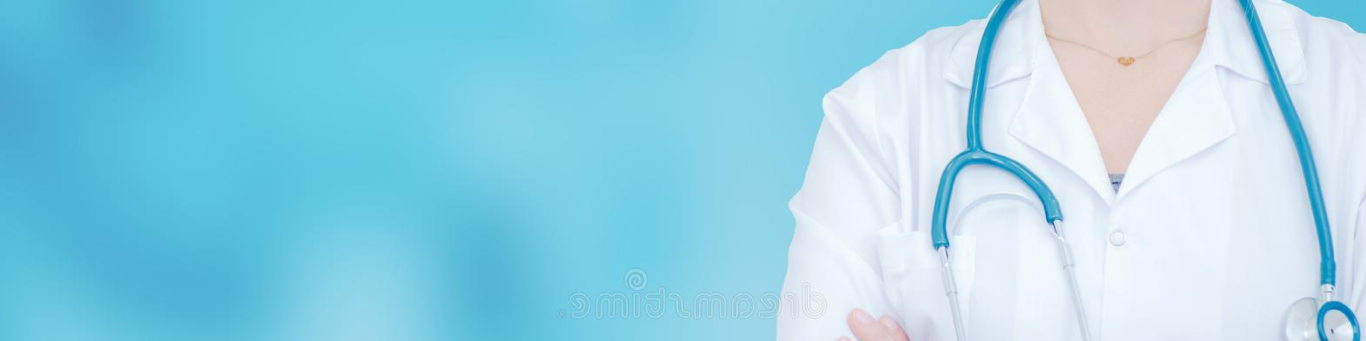
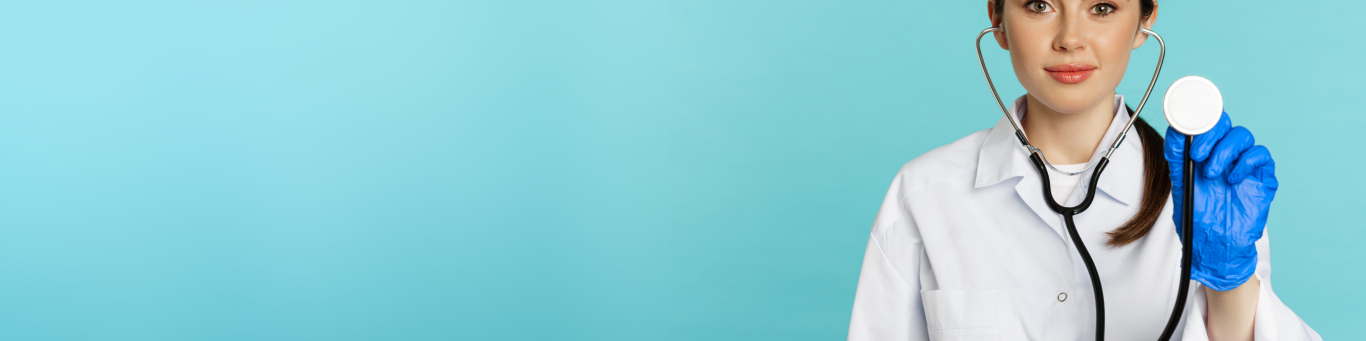
Files Updated

diff --git a/patientcaretestimonials.html b/patientcaretestimonials.html
@@ -82,8 +82,7 @@
     <section class="testimonial_area ptb-70">
         <div class="content_container">
             <h2>What our patient is talking about  MPUH.</h2>
-            <p class="font_regular">Lorem ipsum dolor sit amet, consectetuer adipiscing elit. Aenean commodo ligula eget dolor. Aenean massa. <br>
-                Cum sociis natoque penatibus et magnis dis parturient montes, </p>
+            
                 <div class="row stories_flex">
                     <div class="col-md-3 col-sm-6 col-12">
                         <div class="stories_box">
@@ -92,7 +91,7 @@
                             </div>
                             <div class="stories_content">
                                 <img src="img/quotes.png" alt="left_quote" class="img-fluid quote_icon">
-                                <p class="font_regular">Lorem ipsum dolor sit amet, consectetuer adipiscing elit. Aenean commodo ligulaeget </p>
+                                
                                 <h3>Mr.Somsingh Tank</h3>
                                 <p class="font_small destination">Baruch, Gujarat, India</p>
                                 <a href="https://youtu.be/qw5dIlHQiwQ?si=IxtgVnGYvijYuvdO" class="blue_btn">
@@ -109,7 +108,7 @@
                             </div>
                             <div class="stories_content">
                                 <img src="img/quotes.png" alt="left_quote" class="img-fluid quote_icon">
-                                <p class="font_regular">Lorem ipsum dolor sit amet, consectetuer adipiscing elit. Aenean commodo ligulaeget </p>
+                                
                                 <h3>Mr.Prakashchandra Jain</h3>
                                 <p class="font_small destination">Imphal, Manlnagar, India</p>
                                 <a href="https://youtu.be/PavyZ5PLKKA?si=YxF0iGPllWSdhX5y" class="blue_btn">
@@ -126,7 +125,7 @@
                             </div>
                             <div class="stories_content">
                                 <img src="img/quotes.png" alt="left_quote" class="img-fluid quote_icon">
-                                <p class="font_regular">Lorem ipsum dolor sit amet, consectetuer adipiscing elit. Aenean commodo ligulaeget </p>
+                                
                                 <h3>Mr.Ahmed Ebrahim</h3>
                                 <p class="font_small destination">Bahrain, Middle East</p>
                                 <a href="https://youtu.be/vKsvyiROiWY?si=k6zzRcnX_SF06_yw" class="blue_btn">
@@ -143,7 +142,7 @@
                             </div>
                             <div class="stories_content">
                                 <img src="img/quotes.png" alt="left_quote" class="img-fluid quote_icon">
-                                <p class="font_regular">Lorem ipsum dolor sit amet, consectetuer adipiscing elit. Aenean commodo ligulaeget </p>
+                                
                                 <h3>Mr.Sanjaykumar Mohta</h3>
                                 <p class="font_small destination">West Bengal, India</p>
                                 <a href="https://youtu.be/AFsThTVCHV0?si=uyOlR3UHUYXRr53B" class="blue_btn">
@@ -160,7 +159,7 @@
                             </div>
                             <div class="stories_content">
                                 <img src="img/quotes.png" alt="left_quote" class="img-fluid quote_icon">
-                                <p class="font_regular">Lorem ipsum dolor sit amet, consectetuer adipiscing elit. Aenean commodo ligulaeget </p>
+                                
                                 <h3>Mr.Prakash Masand</h3>
                                 <p class="font_small destination">Indore, Madhya Pradesh, India</p>
                                 <a href="https://youtu.be/opqXghCo5w4?si=RMSvplj6Bron7q10" class="blue_btn">
@@ -177,7 +176,7 @@
                             </div>
                             <div class="stories_content">
                                 <img src="img/quotes.png" alt="left_quote" class="img-fluid quote_icon">
-                                <p class="font_regular">Lorem ipsum dolor sit amet, consectetuer adipiscing elit. Aenean commodo ligulaeget </p>
+                                
                                 <h3>Mr.Christian Chukwkere</h3>
                                 <p class="font_small destination">Lagos, NIgeria, West Africa</p>
                                 <a href="https://youtu.be/gH8_dxdHw0o?si=3Gd79Y3ln9urDCaU" class="blue_btn">

diff --git a/testimonials.html b/testimonials.html
@@ -80,8 +80,7 @@
     <section class="testimonial_area ptb-70">
         <div class="content_container">
             <h2>What our patient is talking about  MPUH.</h2>
-            <p class="font_regular">Lorem ipsum dolor sit amet, consectetuer adipiscing elit. Aenean commodo ligula eget dolor. Aenean massa. <br>
-                Cum sociis natoque penatibus et magnis dis parturient montes, </p>
+            
                 <div class="row stories_flex">
                     <div class="col-md-3 col-sm-6 col-12">
                         <div class="stories_box">
@@ -90,7 +89,7 @@
                             </div>
                             <div class="stories_content">
                                 <img src="img/quotes.png" alt="left_quote" class="img-fluid quote_icon">
-                                <p class="font_regular">Lorem ipsum dolor sit amet, consectetuer adipiscing elit. Aenean commodo ligulaeget </p>
+                                
                                 <h3>Mr.Somsingh Tank</h3>
                                 <p class="font_small destination">Baruch, Gujarat, India</p>
                                 <a href="https://youtu.be/qw5dIlHQiwQ?si=IxtgVnGYvijYuvdO" class="blue_btn">
@@ -107,7 +106,7 @@
                             </div>
                             <div class="stories_content">
                                 <img src="img/quotes.png" alt="left_quote" class="img-fluid quote_icon">
-                                <p class="font_regular">Lorem ipsum dolor sit amet, consectetuer adipiscing elit. Aenean commodo ligulaeget </p>
+                                
                                 <h3>Mr.Prakashchandra Jain</h3>
                                 <p class="font_small destination">Imphal, Manlnagar, India</p>
                                 <a href="https://youtu.be/PavyZ5PLKKA?si=YxF0iGPllWSdhX5y" class="blue_btn">
@@ -124,7 +123,7 @@
                             </div>
                             <div class="stories_content">
                                 <img src="img/quotes.png" alt="left_quote" class="img-fluid quote_icon">
-                                <p class="font_regular">Lorem ipsum dolor sit amet, consectetuer adipiscing elit. Aenean commodo ligulaeget </p>
+                                
                                 <h3>Mr.Ahmed Ebrahim</h3>
                                 <p class="font_small destination">Bahrain, Middle East</p>
                                 <a href="https://youtu.be/vKsvyiROiWY?si=k6zzRcnX_SF06_yw" class="blue_btn">
@@ -141,7 +140,7 @@
                             </div>
                             <div class="stories_content">
                                 <img src="img/quotes.png" alt="left_quote" class="img-fluid quote_icon">
-                                <p class="font_regular">Lorem ipsum dolor sit amet, consectetuer adipiscing elit. Aenean commodo ligulaeget </p>
+                                
                                 <h3>Mr.Sanjaykumar Mohta</h3>
                                 <p class="font_small destination">West Bengal, India</p>
                                 <a href="https://youtu.be/AFsThTVCHV0?si=uyOlR3UHUYXRr53B" class="blue_btn">
@@ -158,7 +157,7 @@
                             </div>
                             <div class="stories_content">
                                 <img src="img/quotes.png" alt="left_quote" class="img-fluid quote_icon">
-                                <p class="font_regular">Lorem ipsum dolor sit amet, consectetuer adipiscing elit. Aenean commodo ligulaeget </p>
+                                
                                 <h3>Mr.Prakash Masand</h3>
                                 <p class="font_small destination">Indore, Madhya Pradesh, India</p>
                                 <a href="https://youtu.be/opqXghCo5w4?si=RMSvplj6Bron7q10" class="blue_btn">
@@ -175,7 +174,7 @@
                             </div>
                             <div class="stories_content">
                                 <img src="img/quotes.png" alt="left_quote" class="img-fluid quote_icon">
-                                <p class="font_regular">Lorem ipsum dolor sit amet, consectetuer adipiscing elit. Aenean commodo ligulaeget </p>
+                                
                                 <h3>Mr.Christian Chukwkere</h3>
                                 <p class="font_small destination">Lagos, NIgeria, West Africa</p>
                                 <a href="https://youtu.be/gH8_dxdHw0o?si=3Gd79Y3ln9urDCaU" class="blue_btn">

diff --git a/js/main.js b/js/main.js
@@ -412,12 +412,12 @@ $(document).ready(function () {
                               <span class="font_regular">News & Media</span>
                             </a>
                           </li>
-                          <li>
+                          <!--<li>
                             <a href="blog.html">
                               <img src="img/blog.png" alt="Blog" class="img-fluid">
                               <span class="font_regular">Blog</span>
                             </a>
-                          </li>
+                          </li>-->
                           <li>
                             <a href="careers.html">
                               <img src="img/recruitment.png" alt="careers" class="img-fluid">
@@ -732,7 +732,7 @@ $(document).ready(function () {
                   </div>
                 </div>
 
-                <div class="card">
+                <!--<div class="card">
                   <div class="card-header" id="heading-4-4">
                     <h5 class="mb-0">
                       <a class="no_collapse" href="blog.html">
@@ -740,7 +740,7 @@ $(document).ready(function () {
                       </a>
                     </h5>
                   </div>
-                </div>
+                </div>-->
 
                 <div class="card">
                   <div class="card-header" id="heading-4-5">
@@ -958,11 +958,11 @@ $(document).ready(function () {
                           <a href="newsandmedia.html">News & Media</a>
                         </h3>
                       </div>
-                      <div class="bottom_footer_heading">
+                      <!--<div class="bottom_footer_heading">
                         <h3>
                           <a href="blog.html">Blogs</a>
                         </h3>
-                      </div>
+                      </div>-->
                       <div class="bottom_footer_heading">
                         <h3>
                           <a href="careers.html">Careers</a>
@@ -1054,9 +1054,6 @@ $(document).ready(function () {
                     <select class="selectpicker" title='Choose Department'>
                         <option>Urology</option>
                         <option>Nephrology</option>
-                        <option>Anesthesia</option>
-                        <option>Pathology</option>
-                        <option>Radiology</option>
                         <option>Physiotherapy</option>
                     </select>
                 </div>

diff --git a/kidney.html b/kidney.html
@@ -177,7 +177,7 @@
                         </div>
                         <div class="stories_content">
                             <img src="img/quotes.png" alt="left_quote" class="img-fluid quote_icon">
-                            <p class="font_regular">Lorem ipsum dolor sit amet, consectetuer adipiscing elit. Aenean commodo ligulaeget </p>
+                            
                             <h3>Mr.Somsingh Tank</h3>
                             <p class="font_small destination">Baruch, Gujarat, India</p>
                             <a href="https://youtu.be/qw5dIlHQiwQ?si=IxtgVnGYvijYuvdO" class="blue_btn">
@@ -194,7 +194,7 @@
                         </div>
                         <div class="stories_content">
                             <img src="img/quotes.png" alt="left_quote" class="img-fluid quote_icon">
-                            <p class="font_regular">Lorem ipsum dolor sit amet, consectetuer adipiscing elit. Aenean commodo ligulaeget </p>
+                            
                             <h3>Mr.Prakashchandra Jain</h3>
                             <p class="font_small destination">Imphal, Manlnagar, India</p>
                             <a href="https://youtu.be/PavyZ5PLKKA?si=YxF0iGPllWSdhX5y" class="blue_btn">
@@ -211,7 +211,7 @@
                         </div>
                         <div class="stories_content">
                             <img src="img/quotes.png" alt="left_quote" class="img-fluid quote_icon">
-                            <p class="font_regular">Lorem ipsum dolor sit amet, consectetuer adipiscing elit. Aenean commodo ligulaeget </p>
+                            
                             <h3>Mr.Ahmed Ebrahim</h3>
                             <p class="font_small destination">Bahrain, Middle East</p>
                             <a href="https://youtu.be/vKsvyiROiWY?si=k6zzRcnX_SF06_yw" class="blue_btn">

diff --git a/index.html b/index.html
@@ -45,6 +45,13 @@
       <div class="owl-carousel owl-theme home_banner">
         <div class="item">
           <div class="item_img">
+            <img src="img/banner/banner-00.png" alt="Banner One" />
+            <h2><b>World class</b> treatment<br>
+              delivered with care</h2>
+          </div>
+        </div>
+        <div class="item">
+          <div class="item_img">
             <img src="img/banner/banner-01.png" alt="Banner One" />
             <h2>Leaders in <b>Urology</b> <br>
               Your Path to Wellness</h2>

diff --git a/css/style.css b/css/style.css
@@ -2606,14 +2606,14 @@ a:hover {
   font-size: 22px;
   font-weight: 700;
   line-height: 28px;
-  margin-bottom: 22px;
+  margin-bottom: 45px;
   color: #132573;
   text-align: center;
 }
 
 .testimonial_area p{
   text-align: center;
-  margin-bottom: 55px;
+  margin-bottom: 25px;
 }
 
 .testimonial_area .stories_flex{

diff --git a/css/sunny.css b/css/sunny.css
@@ -29,6 +29,8 @@
 .specialtiesBanner > img {
   max-height: 346px;
   height: 346px;
+  object-fit: cover;
+  object-position: top;
 }
 
 .specialtiesBannerContent .inner_speciality_content{
